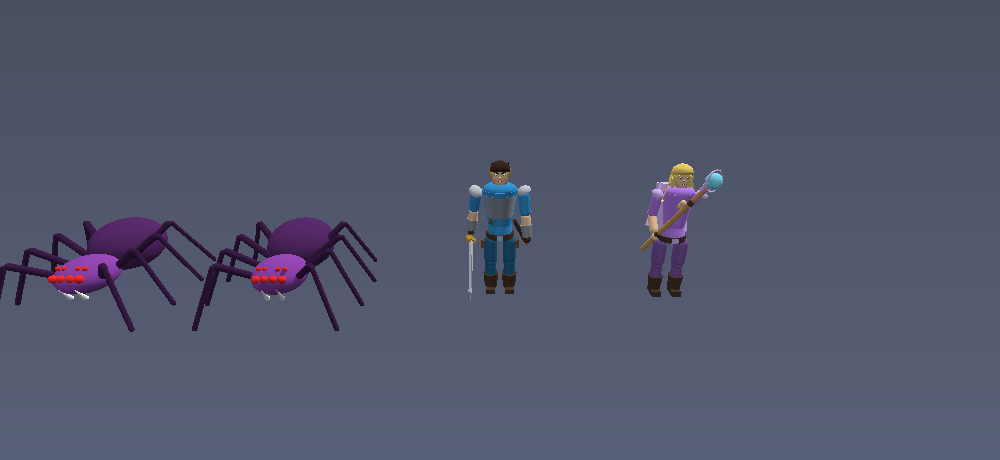
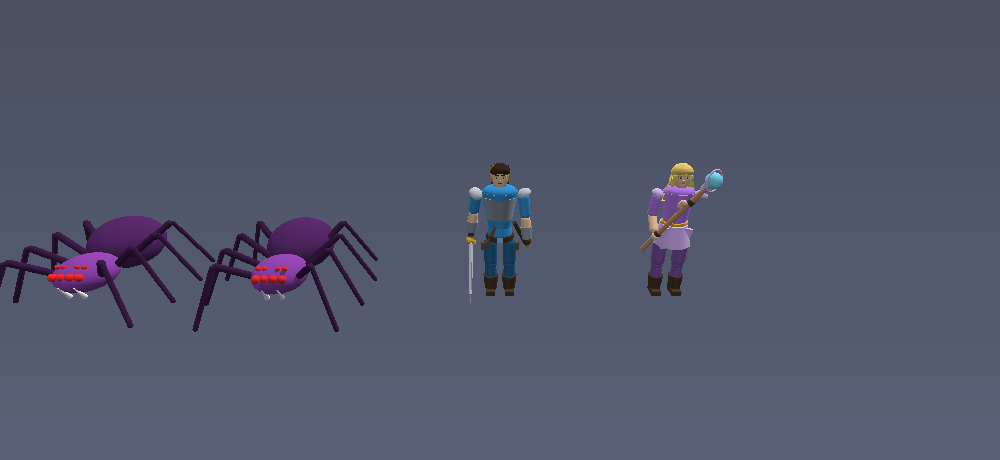
Рюкзак крупнее, поясная накидка Елены, портупея и хвост шарфа
- Рюкзак занимал 33 % ширины спины — читался поясной сумочкой. Увеличен
  до 51 %. Ширину пришлось искать замером: при 0.44 угол короба вылезал
  из-за силуэта на 40 градусах, предел — 0.40. Мешок поднят к лопаткам,
  где корпус шире всего; клапан больше не шире самого мешка.
- Красное справа сзади — хвост шарфа: при x=0.2 он выглядывал из-за
  корпуса. Прижат к спине (x=0.13).
- Коричневое на животе спереди — НЕ рюкзак, а портупея: ремень длиной
  0.8 висел серединой на животе, не доходя ни до плеча, ни до пояса.
  Удлинён до 1.24 — теперь это ремень через грудь к поясу.
- Плащ Елены заменён на поясную накидку. По официальному арту и описанию
  костюма у неё «pink decorative waist capelet / pelvic curtain» — юбка-
  фартук на бёдрах поверх платья, а не полотнище от плеч. Добавлен
  пояс-кушак, разрез спереди.

Мутационная проверка выявила два неактивных assert: пороги «хвост не
торчит вбок» (0.05) и «портупея не огрызок» были слабее реального
запаса, и мутации проходили. Ужесточены до 0.13 и до доли высоты
корпуса — теперь обе поломки ловятся.

diff --git a/src/render/models.js b/src/render/models.js
@@ -183,12 +183,14 @@ export function createHumanoid(scene, {
         plate.material = steelDark;
 
         // Ремень через грудь — за спиной ножны.
+        // Портупея идёт ОТ ПЛЕЧА К БЕДРУ. Прежний ремень был вдвое короче
+        // (0.8) и висел серединой на животе: получалось коричневое пятно,
+        // не связанное ни с плечом, ни с поясом.
         const strap = track(MeshBuilder.CreateBox(`${id}_strap`, {
-            width: 0.12, height: 0.8, depth: 0.05,
+            width: 0.11, height: 1.24, depth: 0.05,
         }, scene));
         strap.parent = torso;
-        // z=0.13 держит ремень НА груди: при 0.2 он висел в воздухе перед ней.
-        strap.position.set(0.03, 0.68, 0.13);
+        strap.position.set(0.02, 0.42, 0.14);
         strap.rotation.z = 0.42;
         strap.material = leatherLight;
 
@@ -235,8 +237,10 @@ export function createHumanoid(scene, {
             width: 0.13, height: 0.38, depth: 0.06,
         }, scene));
         scarfTail.parent = torso;
-        scarfTail.position.set(0.2, 0.92, -0.14);
-        scarfTail.rotation.set(-0.12, 0, 0.24);
+        // Хвост прижат к спине под лопаткой: при x=0.2 / z=-0.14 он
+        // выглядывал справа из-за корпуса красным пятном.
+        scarfTail.position.set(0.13, 0.9, -0.05);
+        scarfTail.rotation.set(-0.05, 0, 0.16);
         scarfTail.material = scarfMat;
 
         // Заплечный мешок странствующего Geohound.
@@ -249,25 +253,25 @@ export function createHumanoid(scene, {
         // читалось как «рюкзак просвечивает через живот». На высоте лопаток
         // корпус шире, и тот же выступ остаётся закрыт силуэтом.
         const pack = track(MeshBuilder.CreateBox(`${id}_pack`, {
-            width: 0.26, height: 0.26, depth: 0.11,
+            width: 0.40, height: 0.44, depth: 0.18,
         }, scene));
         pack.parent = torso;
-        pack.position.set(0, 0.83, -0.29);
+        pack.position.set(0, 0.94, -0.27);
         pack.material = packMat;
 
         const packFlap = track(MeshBuilder.CreateBox(`${id}_packFlap`, {
-            width: 0.28, height: 0.12, depth: 0.14,
+            width: 0.38, height: 0.13, depth: 0.17,
         }, scene));
         packFlap.parent = torso;
-        packFlap.position.set(0, 0.95, -0.29);
+        packFlap.position.set(0, 1.14, -0.27);
         packFlap.material = leather;
 
         // Скатка лежит на клапане, а не над плечами.
         const bedroll = track(MeshBuilder.CreateCylinder(`${id}_bedroll`, {
-            height: 0.24, diameter: 0.1, tessellation: 10,
+            height: 0.36, diameter: 0.12, tessellation: 10,
         }, scene));
         bedroll.parent = torso;
-        bedroll.position.set(0, 1.0, -0.28);
+        bedroll.position.set(0, 1.2, -0.27);
         bedroll.rotation.z = Math.PI / 2;
         bedroll.material = scarfMat;
 
@@ -277,7 +281,7 @@ export function createHumanoid(scene, {
                 width: 0.08, height: 0.42, depth: 0.05,
             }, scene));
             packStrap.parent = torso;
-            packStrap.position.set(0.11 * side, 0.83, -0.25);
+            packStrap.position.set(0.13 * side, 0.9, -0.24);
             packStrap.rotation.x = -0.12;
             packStrap.material = leather;
         }
@@ -315,42 +319,38 @@ export function createHumanoid(scene, {
     cape.position.set(0, 0.58, -0.34);
 
     if (weapon === 'staff') {
-    // Плащ огибает спину. Прежний был сплющен до 0.12 по глубине —
-    // с любого ракурса, кроме строго фронтального, он читался как плоский
-    // лист, висящий отдельно от фигуры.
-    const cloak = track(MeshBuilder.CreateCylinder(`${id}_cape`, {
-        height: 1.05, diameterTop: 0.58, diameterBottom: 0.92,
-        tessellation: 8, faceted: true,
-    }, scene));
-    cloak.parent = cape;
-    cloak.rotation.set(-0.06, Math.PI / 8, 0);
-    cloak.scaling.z = 0.42;
-    cloak.position.z = -0.06;
-    cloak.material = trim;
-
-    // Складки: две вертикальные грани ломают плоскость плаща.
-    for (const side of [-1, 1]) {
-        const fold = track(MeshBuilder.CreateCylinder(`${id}_capeFold${side}`, {
-            height: 1.0, diameterTop: 0.16, diameterBottom: 0.3,
-            tessellation: 4, faceted: true,
+        // У Елены НЕ плащ за спиной, а поясная накидка («pelvic curtain»):
+        // короткая юбка-фартук на бёдрах поверх платья. Прежний вариант —
+        // полотнище от плеч — не соответствовал костюму и с любого ракурса,
+        // кроме фронтального, читался как доска, приставленная к спине.
+        const skirt = track(MeshBuilder.CreateCylinder(`${id}_cape`, {
+            height: 0.46, diameterTop: 0.6, diameterBottom: 0.84,
+            tessellation: 10, faceted: true,
         }, scene));
-        fold.parent = cloak;
-        // Складки прижаты к телу плаща. Смещение -0.6 по z считалось от
-        // сплющенного родителя (0.12); после того как плащу вернули объём
-        // (0.42), они уехали наружу и торчали отдельными плитами.
-        fold.position.set(0.3 * side, 0.0, -0.12);
-        fold.rotation.y = Math.PI / 4;
-        fold.scaling.set(1, 0.98, 1);
-        fold.material = trim;
-    }
+        skirt.parent = torso;
+        skirt.position.set(0, 0.12, 0);
+        skirt.material = trim;
 
-    // Застёжка плаща у горла.
-    const clasp = track(MeshBuilder.CreateSphere(`${id}_capeClasp`, {
-        diameterX: 0.14, diameterY: 0.1, diameterZ: 0.1,
-    }, scene));
-    clasp.parent = torso;
-    clasp.position.set(0, 1.02, -0.18);
-    clasp.material = gold;
+        // Разрез спереди: накидка не смыкается, из-под неё видны ноги.
+        for (const side of [-1, 1]) {
+            const panel = track(MeshBuilder.CreateBox(`${id}_capeFold${side}`, {
+                width: 0.22, height: 0.5, depth: 0.05,
+            }, scene));
+            panel.parent = torso;
+            panel.position.set(0.2 * side, 0.06, 0.2);
+            panel.rotation.set(0.12, 0, side * -0.14);
+            panel.material = trim;
+        }
+
+        // Пояс-кушак, на котором держится накидка.
+        const sash = track(MeshBuilder.CreateCylinder(`${id}_capeClasp`, {
+            height: 0.12, diameterTop: 0.58, diameterBottom: 0.62,
+            tessellation: 12,
+        }, scene));
+        sash.parent = torso;
+        sash.position.set(0, 0.34, 0);
+        sash.scaling.z = 0.8;
+        sash.material = gold;
     }
 
     // Шея и воротник: без них голова просто висела над торсом.
